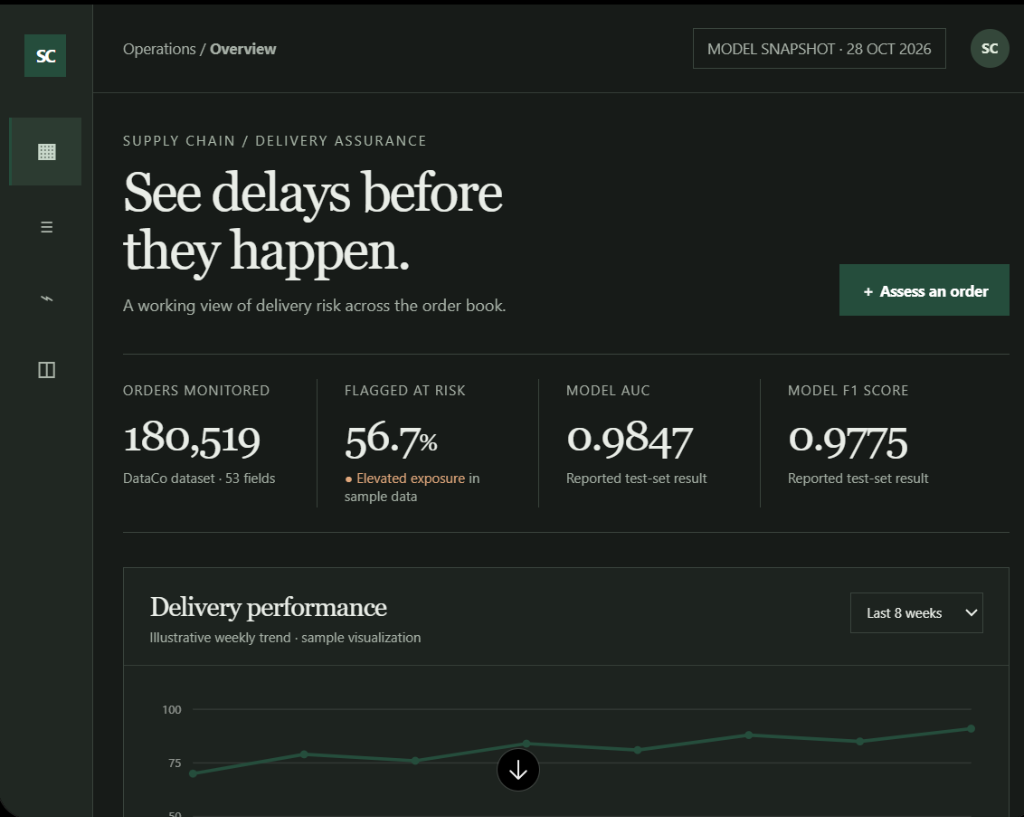
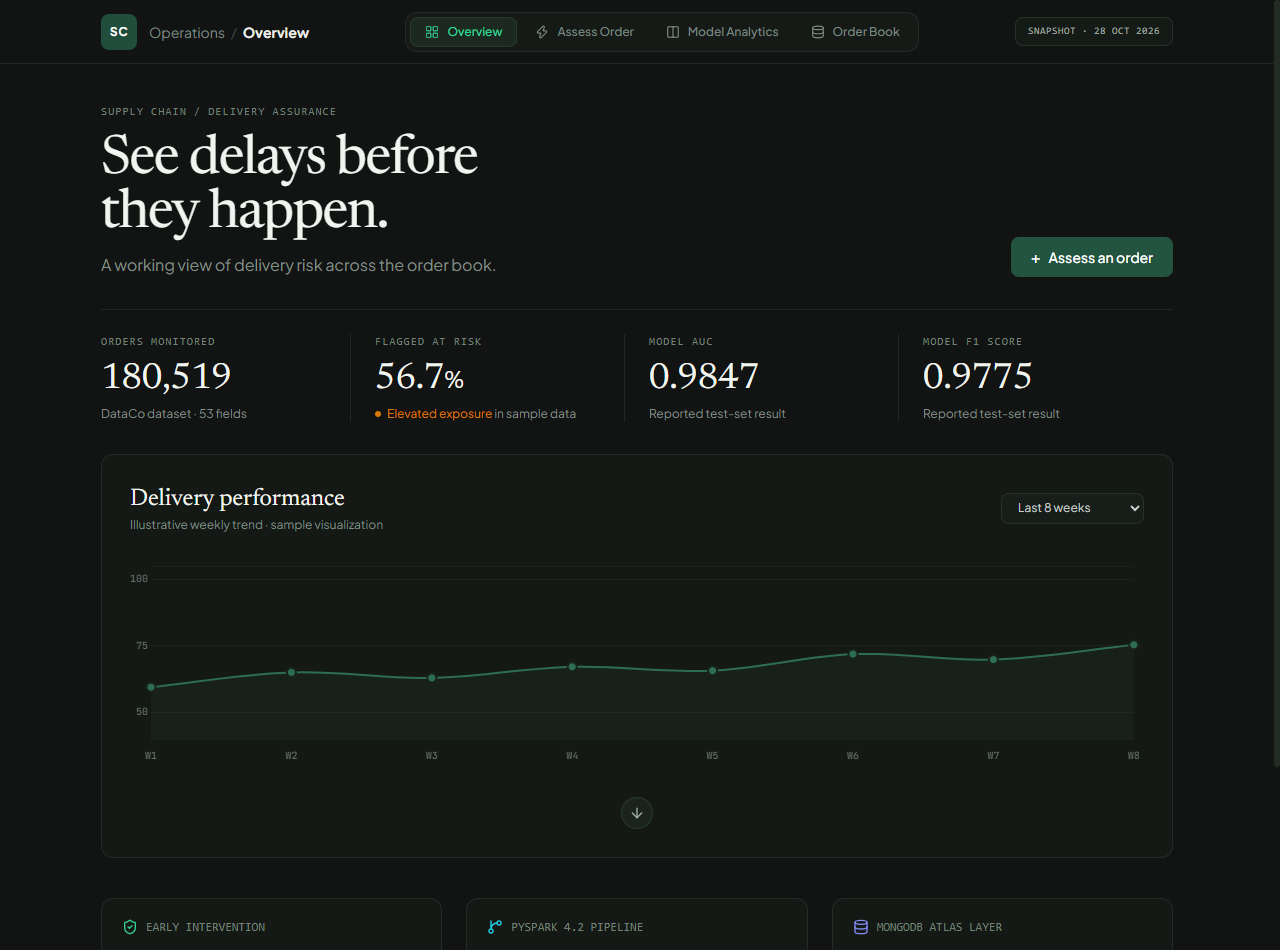
refactor: replace legacy report assets with clean web app screenshots and native Mermaid architecture

diff --git a/static/js/app.js b/static/js/app.js
@@ -200,4 +200,11 @@ window.addEventListener('DOMContentLoaded', () => {
   if (typeof renderWeeklyPerformanceChart === 'function') {
     renderWeeklyPerformanceChart();
   }
+
+  // Handle direct tab routing via ?tab= or #hash
+  const urlParams = new URLSearchParams(window.location.search);
+  const requestedTab = urlParams.get('tab') || window.location.hash.replace('#', '');
+  if (requestedTab && ['overview', 'assess', 'analytics', 'mongodb'].includes(requestedTab)) {
+    switchView(requestedTab);
+  }
 });

diff --git a/README.md b/README.md
@@ -27,7 +27,15 @@ Project topic: **Logistic Regression for Supply Chain Late Delivery Risk Predict
 | Interactive Notebooks | Google Colab, Jupyter Notebook |
 | Dataset Source | Kaggle (DataCo Global Supply Chain) |
 
-![Project Pipeline](assets/readme/pipeline-diagram.jpg)
+```mermaid
+flowchart LR
+    A[Kaggle Dataset<br/>180,519 records] --> B[MongoDB Atlas<br/>Cloud Ingestion]
+    B --> C[PySpark Pipeline<br/>Cleaning & Indexing]
+    C --> D[Correlation & Multicollinearity<br/>Feature Selection]
+    D --> E[StandardScaler &<br/>VectorAssembler]
+    E --> F[PySpark MLlib<br/>Logistic Regression]
+    F --> G[Interactive Flask<br/>Executive Web App]
+```
 
 ---
 
@@ -137,7 +145,28 @@ The architecture contains three main stages:
 2. **Storage**: Data is exported to MongoDB Atlas.
 3. **Modeling**: PySpark is used for preprocessing, feature engineering, model training, and evaluation.
 
-![Data Pipeline from PowerPoint](assets/readme/ppt-image-1.png)
+```mermaid
+flowchart TD
+    subgraph INGESTION["1. Cloud Ingestion and Storage"]
+        K[Kaggle DataCo Dataset] --> C[Google Colab / Python Ingestion]
+        C --> M[("MongoDB Atlas Cloud<br/>Regression_loogistic.preprocessing")]
+    end
+    subgraph PREPROCESSING["2. PySpark Data Processing"]
+        M --> P[PySpark Session]
+        P --> D[Data Cleaning & Null Handling]
+        D --> S[StringIndexer & OneHotEncoder]
+        S --> F[Feature Correlation & Multicollinearity Filtering]
+        F --> V[VectorAssembler & StandardScaler]
+    end
+    subgraph MODELING["3. Machine Learning and Inference"]
+        V --> T[80/20 Train-Test Split]
+        T --> LR[Spark MLlib Logistic Regression]
+        T --> RF[Spark MLlib Random Forest]
+        T --> PD[Pre-Dispatch Zero Leakage Model]
+        LR --> E["Model Evaluation<br/>AUC 0.9851 · Recall 97.65%"]
+        E --> W[Flask Executive Web Application]
+    end
+```
 
 
 The project ingestion process uses:
@@ -325,7 +354,7 @@ The model is evaluated using:
 - F1-score
 - Confusion matrix
 
-![Evaluation Report Page](assets/readme/pdf-page-8.png)
+![Model Analytics & Benchmark](assets/readme/model-analytics.png)
 
 ---
 
@@ -522,16 +551,20 @@ Open your browser at: `http://127.0.0.1:5000`
 
 ![Executive Operations Dashboard](assets/readme/web-dashboard.png)
 
-### Real-Time Order Risk Assessor
+### Real-Time Order Risk Assessor (Dual Mode)
 
 ![Full-Screen Order Risk Assessor](assets/readme/order-assessor.png)
+
+### Model Intelligence & Performance Benchmark
+
+![Model Analytics & Benchmark](assets/readme/model-analytics.png)
+
+### MongoDB Atlas Order Book Explorer
+
+![MongoDB Atlas Explorer](assets/readme/mongodb-explorer.png)
 
 ### PySpark Feature Correlation Heatmap
 
 ![Feature Correlation Matrix](assets/correlation_heatmap.png)
-
-### Dataset Overview & Architecture
-
-![Dataset Columns](assets/readme/ppt-image-12.png)
 
 
